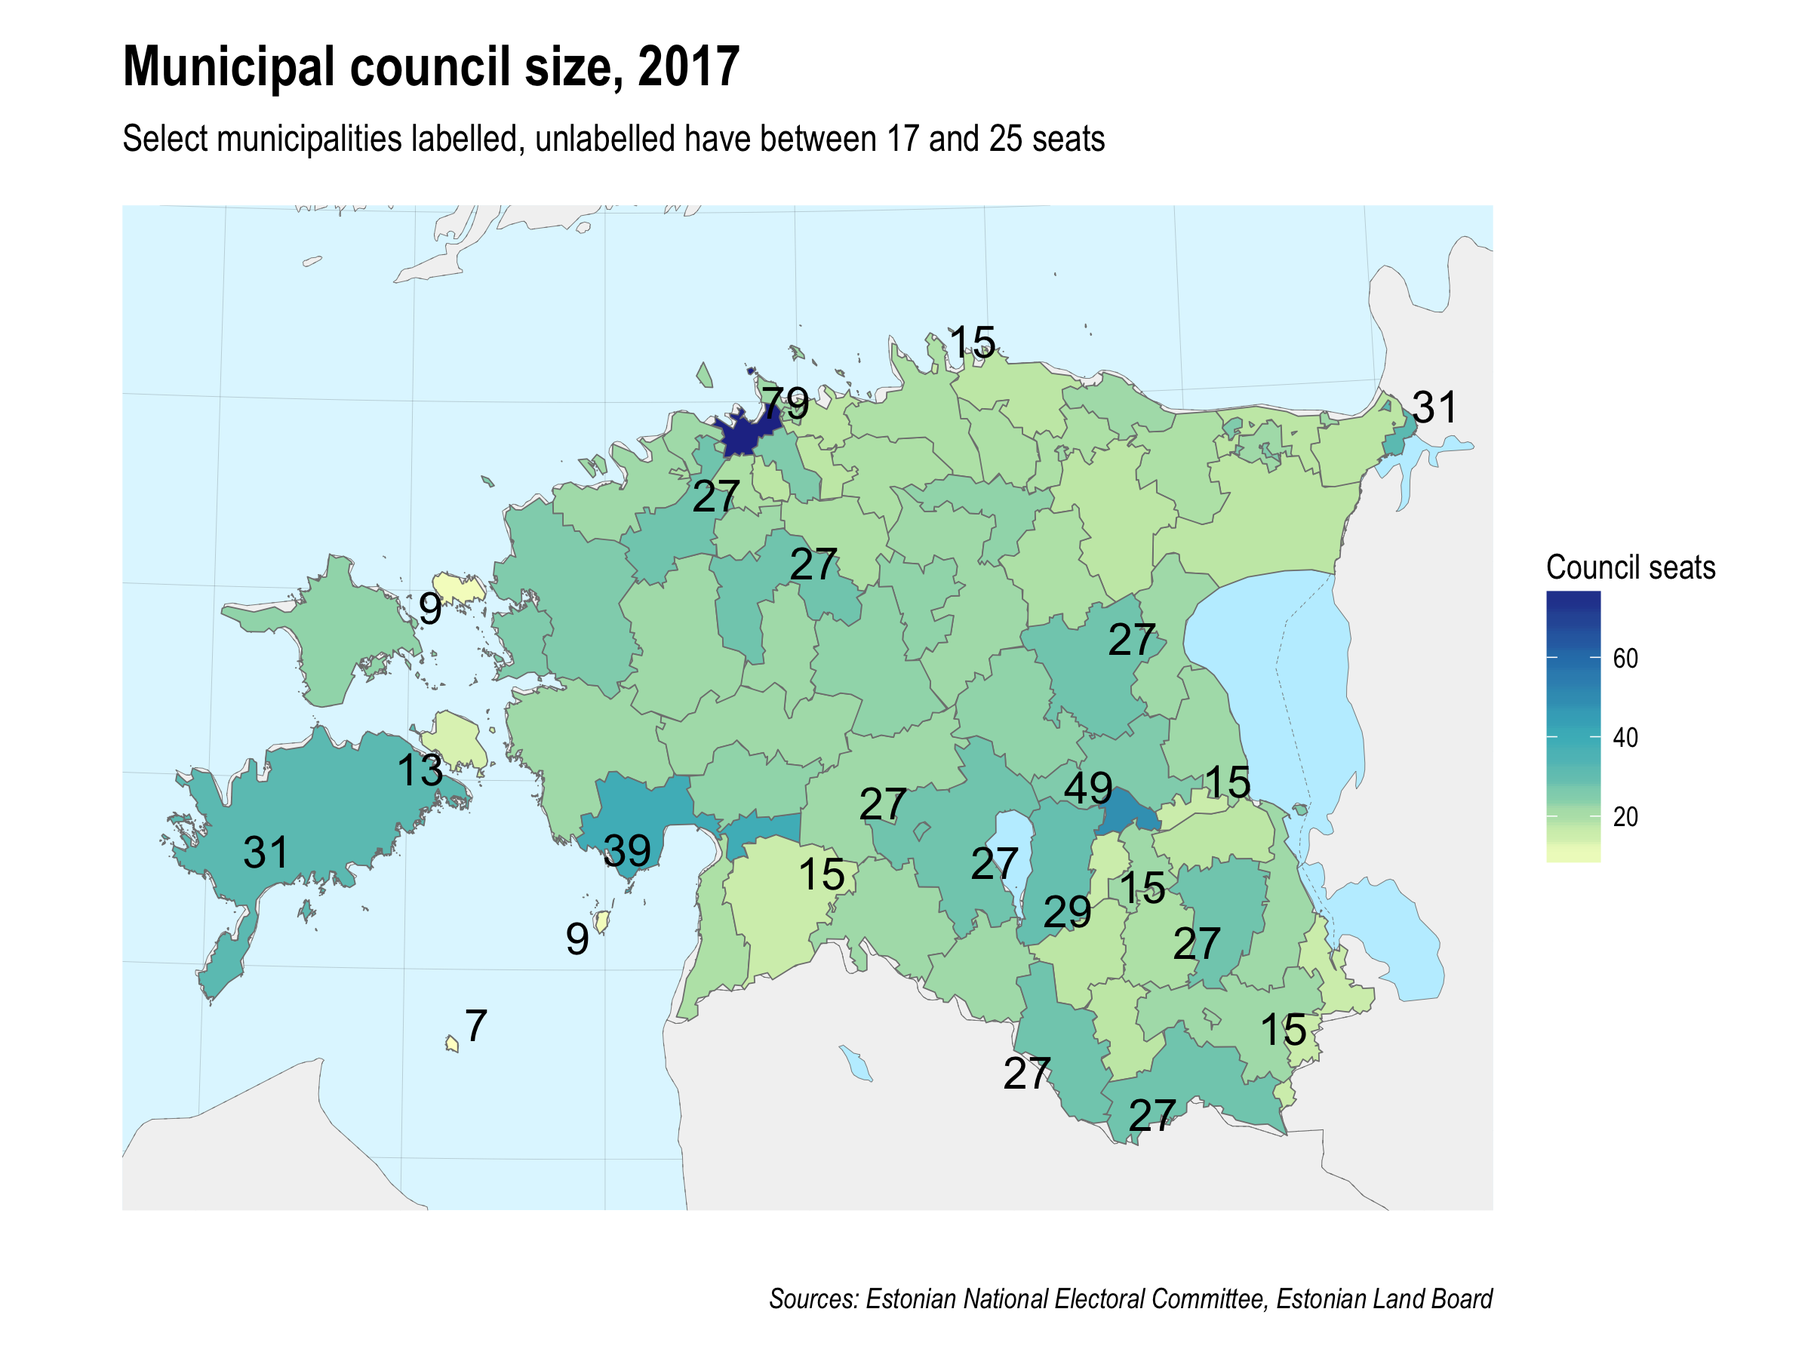
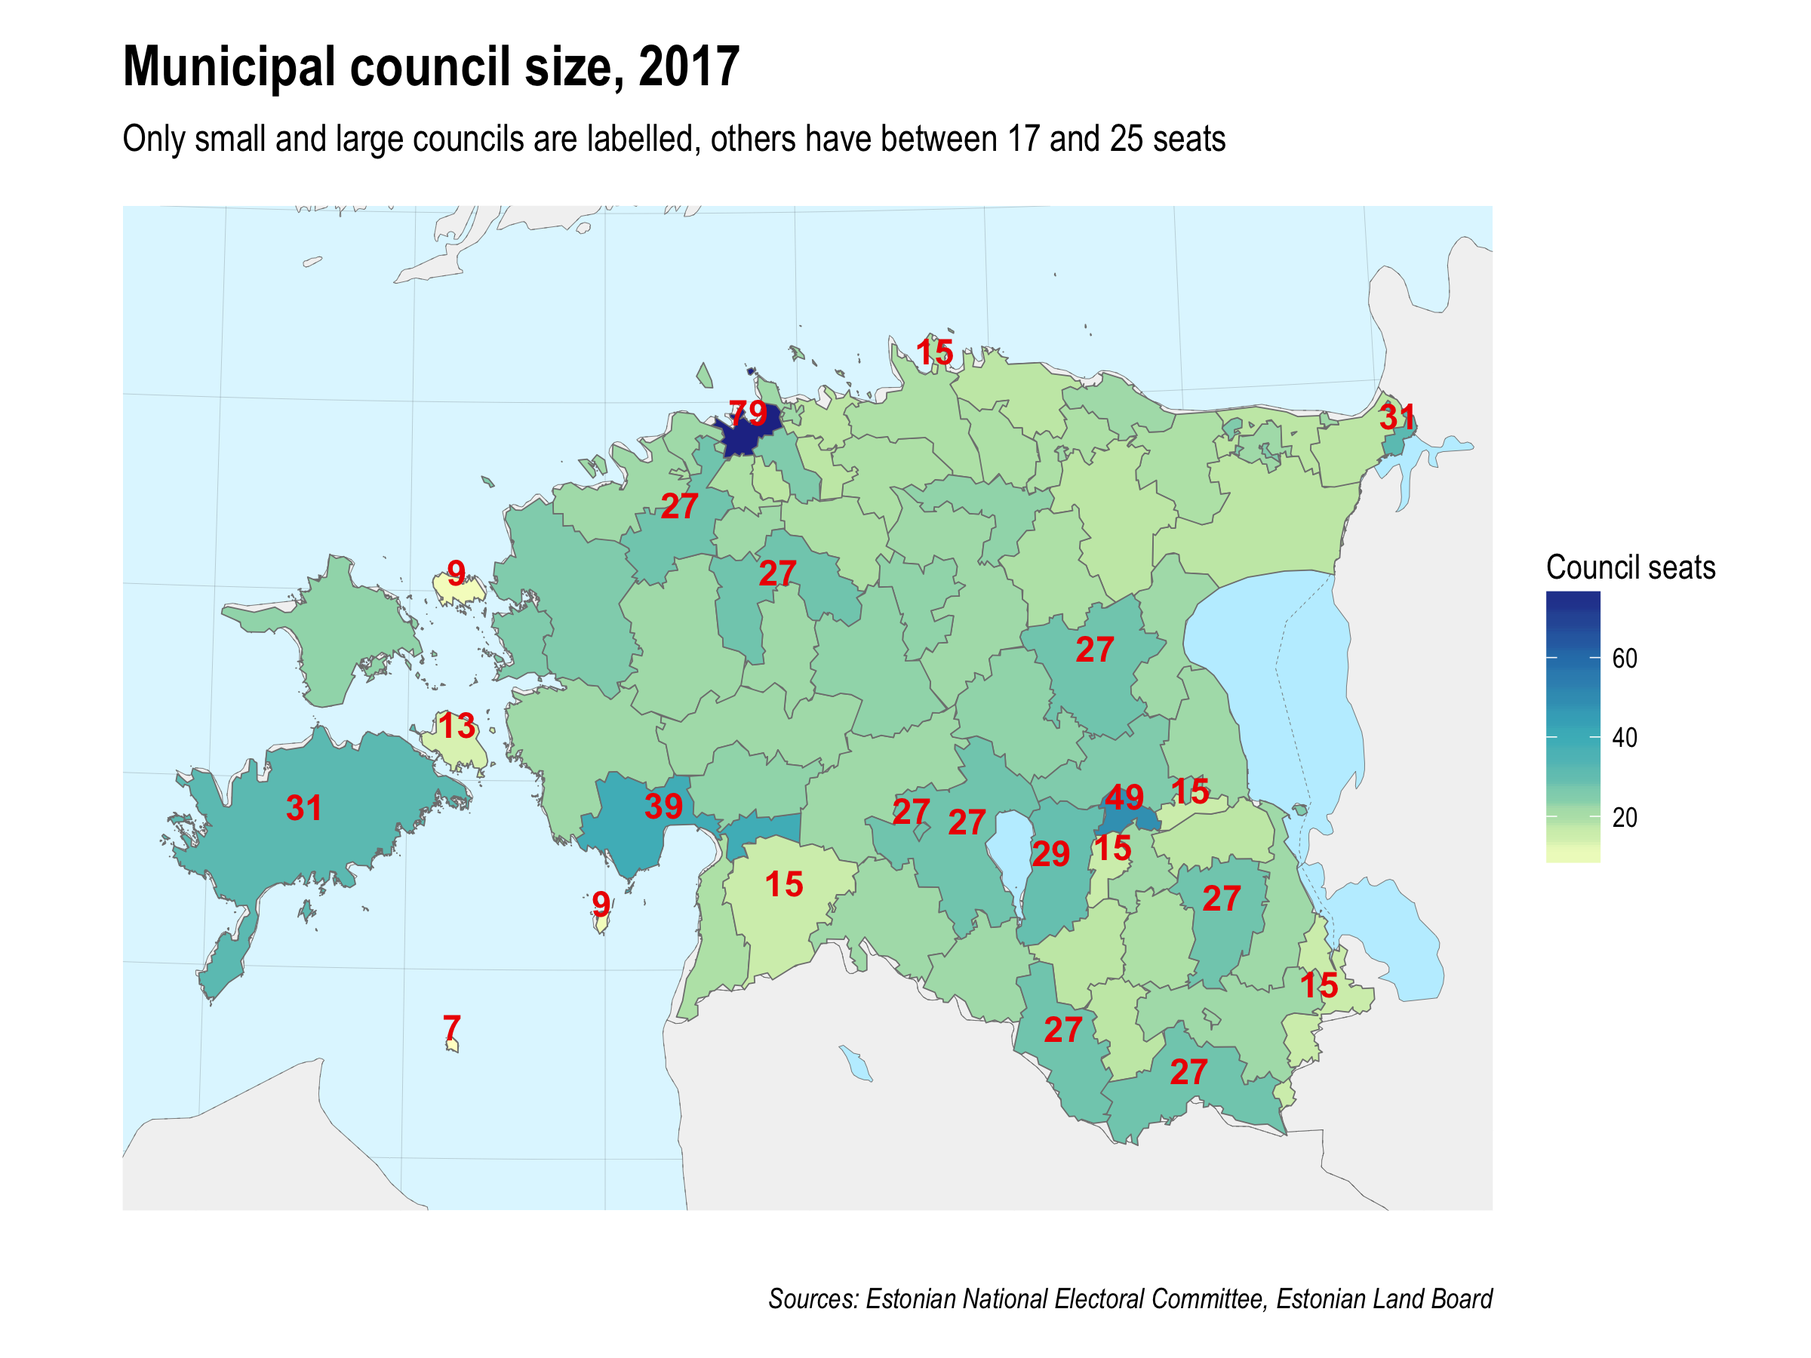
add Estonia 2017 elections post

diff --git a/_posts/2017-11-28-estonia-2017-local-elections.md b/_posts/2017-11-28-estonia-2017-local-elections.md
@@ -1,0 +1,162 @@
+---
+layout: single
+title: Local elections in Estonia
+date: 2017-11-28 21:30:00
+category: research
+tags: [estonia, elections, local elections]
+excerpt: Going through results for the 2017 local elections in Estonia; how well did the local right-wing populists do; slight disproportionality in results that favors bigger parties
+og_image: /content/2017/map-ekre-seats.png
+---
+
+About a month ago, on October 15th, Estonia held local elections for 79 municipalities. Insofar as they take place around the midpoint between national elections--the next are in 2019--the local elections are somewhat of a bellwether, like the US mid-term elections are. Accordingly a lot of the coverage in Estonia has focused on national-level results for the five major parties. 
+
+For anyone outside of Estonia, it is 2017 and the burning question of course is how well the local right-wing populists did. Especially since there may be the perception given the current state of affairs in countries like Hungary and Poland that Eastern Europe is not doing so well in this regard. This is what got me interested in the first place, although mostly for selfish reasons since I am a foreigner living in Estonia. 
+
+A disclaimer before I start: I don't think anything in here will be radically surprising to an Estonian reader. But I have lived here for three years now and have to admit that I knew very little about how elections work in Estonia before writing this post. 
+
+## Background
+
+After the latest round of administrative reforms this year, the number of municipalities in Estonia was reduced from over 200 before to 79.[^1] The elections were for councils in each of those municipalities. The councils vary in size loosely in proportion to population, with a range of 7 to 79. Tallinn and Tartu, the two largest cities, have 79 and 49 member councils respectively; most other councils have between 17 and 25 members. 
+
+[^1]: There have been several rounds of administrative reform in Estonia actually in which county and municipal borders have been redrawn. I gather that the latest round was to aggregate municipalities with a population less than 5,000. I wonder what the process for changing county borders in the US is, if there is one (and I think there isn't for state borders). 
+
+[![tag]({{ site.url }}/content/2017/map-council-seats.png)]({{ site.url }}/content/2017/map-council-seats.png)
+
+The elections use open-list proportional representation (PR) with a 5% electoral threshold. The Electoral Commission has a [very informative explanation](https://www.valimised.ee/en/estonian-elections-nutshell/ascertaining-election-results-local-government-councils-elections), and examples, for how it works. The experience of voting is not that different from how Americans vote. You cast your vote for one candidate, not a party per se, although you have a much broader range of candidates to vote for than the typical two in the US. And the candidates are grouped together in lists, which may represent parties or more temporary electoral alliances. 
+
+The big difference is in how winners are determined. Council seats are divvied up to the lists based on how many votes they each received in total, so that if a lists' candidates together received 30% of the vote they should get roughly 30% of council seats. Provided the list had more than 5% of the vote, that is; if not it gets no seats. Also, candidates who get a lot of votes[^2] are directly elected to a seat, regardless of how well their list as a whole did. 
+
+[^2]: The simple quota, equal to (# of total votes cast) / (# of seats in council). 
+
+Altogether there were 1,729 seats in 79 municipalities to be filled, and almost 12,000 candidates running for them. 
+
+## The results
+
+The Estonian Electoral Commission has a well-done website for the [results of the 2017 election](https://kov2017.valimised.ee/valimis-erakonniti.html)---and all prior elections as well actually---so I will just quickly go through the national level results here. 
+
+Estonia has five major national-level parties:
+
+- Center Party, with stronger support among the Russian minority and pensioners; national governing party since 2016
+- Reform Party, centre-right economic liberals who led government almost continuously between 2001 and 2016
+- Social Democrats, centre-left
+- IRL, center-right conservatives
+- EKRE, right-wing populists
+
+The Center Party obtained a majority of seats, 40 out of 79, in Tallinn. The city is by far Estonia's largest, with about a third of the country's population. That result is down from [46 seats](http://kov2013.vvk.ee/detailed_0784.html) in the last local elections in 2013. 
+
+Otherwise, at the national level the big changes were a crash in the vote for IRL and gains for EKRE, the right-wing populists. The table below summarizes the vote shares for the major parties as well as the various local parties and electoral coalitions, aggregated into the "Other parties/electoral alliances" category. The "Fielded candidates" column is the number of municipalities, out of 79, in which that party fielded candidates at all. Most parties did not run candidates in all 79 municipalities. The remaining columns in the table should be self-explanatory. 
+
+|Party                             | Vote %| Fielded Candidates| Seats| Plurality| Majority|
+|:---------------------------------|------:|------------------:|-----:|---------:|--------:|
+|Other parties/electoral alliances |   28.2|                 79|   751|        |       |
+|Center Party                      |   27.3|                 73|   297|        11|        6|
+|Reform Party                      |   19.5|                 54|   291|        16|        6|
+|Social Democrats                  |   10.4|                 39|   151|         4|        1|
+|IRL                               |    8.0|                 47|   152|         7|        3|
+|EKRE                              |    6.7|                 50|    87|         0|        0|
+
+
+**#1: Local electoral coalitions and single candidates dominated the elections.**
+
+While all of the national parties participated in the local elections, a large chunk of the candidates were from one of more than 150 local electoral alliances, or ran as independent candidates. Edgar Savisaar, former head of the Center Party and major of Tallinn, for example, ran in Tallinn under an independent list rather than as part of the Center Party list. Collectively they received the highest vote share. 
+
+The various local electoral coalitions and single candidates ended up filling 43% of legislative council seats. They also ran a disproportionate share of the total number of candidates.
+
+On a tangent, among the 150+ local lists, was one, in [Antsla vald](https://kov2017.valimised.ee/valimistulemus.html#0142), with the name "Me elame siin"---"We live here" in English. Maybe that's a reference to absentee officials who run as candidates there but actually live elsewhere like in Tallinn?
+
+And the longest name belonged to "Voices", a list catering to foreigners with the right to vote in local elections. That would be either resident EU citizens or foreigners with a permanent residence permit that one can get after 5 years. Their full name is:
+
+> Valimisliit Hääled - international and local voices for the prosperous future of Tallinn/rahvusvahelised ja kohalikud hääled Tallinna õitsva tuleviku jaoks
+
+That's 20 words and 155 characters in total. They managed to get [108 votes](https://kov2017.valimised.ee/valimistulemus.html#0784) in Tallinn. 
+
+**#2: Out of the national parties, the Reform Party had the best bang for their buck.**
+
+While more is always better, generally I think the incentives for these elections are like this:
+
+- getting in below the 5% threshold is bad since you get no seats at all; any resources spent here have a short-term return of zero
+- enough vote share to get a plurality of seats is good since it likely means you will head a coalition governing the municipality
+- getting in at 50% or more is great since it guarantees running the local council and without the need for a coalition
+- but much more than 50% doesn't really provide any extra benefit, so if any resources were spent to get above that level they are also a waste
+
+So the sweet spot is between 5% and around 50% of votes, leaning more towards enough for a plurality or even majority. In these terms, the Reform Party had the best bang for their buck. In the municipalities in which they ran candidates, they tended to do well. In only 2 did they fail to cross the 5% threshold, and often they did well enough to end up with the biggest vote share. Although they had overall 7 percentage points less vote share than the Center Party and ran candidates in 20 less municipalities, they won almost as many local council seats and actually ended up with a plurality in more than the Center Party did.
+
+[![tag]({{ site.url }}/content/2017/map-vote-share-all-parties.png)]({{ site.url }}/content/2017/map-vote-share-all-parties.png)
+
+It's not possible to say that this is a consequence of some action on part of the party, as much as it is a function of the distribution of Reform support across the municipalities, i.e. geographically. The reason the Center Party won less council seats and pluralities in proportion to its higher vote share is that their support is geographically more concentrated. Where the Center Party does well, it does really well. In one municipality it had a vote share above 80%. But the modal vote share is pretty low and close to the 5% threshold. So in many municipalities they failed to win seats at all. 
+
+The plot below shows the distribution of vote shares in each of the 79 municipalities for each party.
+
+[![histograms]({{ site.url }}/content/2017/histograms-party-votes.png)]({{ site.url }}/content/2017/histograms-party-votes.png)
+
+Both the Center Party and IRL have fairly low vote shares in most municipalities in which they ran, but much stronger results in a small number of outliers. The results for Reform and the Social Democrats, and EKRE for that matter, are more evenly and favorably distributed.  
+
+**#3: People vs land, Center and Reform still have the most impact on people**
+
+The discussion and visualizations so far have emphasized municipalities and areas as units over population, and these factors are not well related at all. The population is distributed very lopsidedly, with a third in Tallinn alone. So whoever controls the Tallinn municipal government has almost by default the most influence at the local government level on people, and that would be Keskerakond, the Center Party. They also control the third largest city, Narva in the east, while Reform Party had pluralities Tartu and Pärnu, the second and fourth largest cities, respectively. Those four cities account for about half of Estonia's population. 
+
+Maybe one way to think of this distinction is like this:
+
+- if you ask a random Estonian who heads their local government, chances are it'll be Center Party or Reform Party
+- if you are driving through Estonia, or throwing darts on a map of the country, chances are that it's an area with a local government headed by the Reform Party (well, a weird local electoral coalition most likely, but out of the major national parties anyways)
+
+The population distribution is so skewed it's hard to fit that onto a map at all. I tried below by plotting circles that represent the number of votes each party got in a municipality. The color scheme is the same, but points now mark the municipalities and they are scaled so that the area is proportional to the party's vote in that area. 
+
+[![tag]({{ site.url }}/content/2017/map-vote-counts-all-parties.png)]({{ site.url }}/content/2017/map-vote-counts-all-parties.png)
+
+It's just Tallinn. The city just dominates population. It's [4.5 times](https://en.wikipedia.org/wiki/List_of_cities_and_towns_in_Estonia) as big as the second largest city Tartu. 
+
+One interesting thing that stands out when showing the results this way is how much the Center Party depends on support in Tallinn for its overall success. The table below summarizes the votes for each party and how much of it came from Tallinn.
+
+|Party                             |  Votes| Votes %| Tallinn| Tallinn %|
+|:---------------------------------|------:|-------:|-------:|---------:|
+|Other parties/electoral alliances | 164356|    28.2|   20275|      12.3|
+|Center Party                      | 158952|    27.3|   85199|      53.6|
+|Reform Party                      | 113540|    19.5|   39323|      34.6|
+|Social Democrats                  |  60299|    10.4|   21053|      34.9|
+|IRL                               |  46394|     8.0|   12638|      27.2|
+|EKRE                              |  39003|     6.7|   13437|      34.5|
+
+More than half of the Center Party's votes are from Tallinn, compared to about a third for the other parties. This probably is in large part because many of Estonia's Russians, from whom the Center Party draws strong support, live in Tallinn. While around 40% of Tallinn's population is ethnically Russian, the average for the rest of Estonia is more around 20% and even less if you also take out Eastern municipalities like Narva. 
+
+**#4: There is a predictable deviation from pure proportionality: large parties have a slight advantage.**
+
+In a PR system the legislative seat distribution should more or less reflect party vote shares. In theory this works best when seat numbers are large since you can't split a single council seat, but here we have 79 councils with a median of 21 seats. The first table already showed that the results are not proportional if we sum up to the national level---the Reform Party won almost as many local council seats as the Center Party with 7 percentage points less vote share. At the municipal level there is a very consistent relationship between party vote share and seat share. It is close to proportionality, but slightly in favor for larger parties. 
+
+[![tag]({{ site.url }}/content/2017/proportionality.png)]({{ site.url }}/content/2017/proportionality.png)
+
+This shows party vote share on *x* against party seat share on the *y*-axis. The line and grey bands are exact proportionality---seat share matches vote share---and 5 and 10 point deviations from it. Each point represents a party's vote share in a municipality. The size of the points is proportional to the local council size. Ninety-five percent of points are within 5% of exactly proportional results, but if you draw a line through those points it does not exactly match the proportional line. 
+
+This seems to be due to the specific method used to allocate seats to parties, the [D'Hondt method](https://en.wikipedia.org/wiki/D%27Hondt_method). It slightly favors large parties. Specifically, for every percentage vote share above 15% a party on average received a 0.11% seat advantage. This is from a linear model of seat share on vote share (adj. R^2 = 0.98). 
+
+Generally, the spread in deviations from exact proportionality should be larger for small councils and smaller for larger councils. This does not work as expected. E.g. in Tallinn, which has the largest council size, the Center Party managed to win a 51% seat share with 44.4% of the vote. That's an unexpectedly large deviation, and it was similar for the other large cities. The likely reason is that they are further sub-divided into electoral districts that each respectively have smaller district magnitude (how many seats they elect to the local council). 
+
+Regarding the 5% threshold, most parties below it had in fact 0 seats, but there were exceptions. This can happen when a candidate him or herself personally receives enough votes to be directly elected. Conversely, some parties above the 5% threshold did not get seats. In small councils the effective threshold to get seats can be higher. E.g. in a council with 7 seats you effectively need a list vote of around $100/7 \approx 14.3$ percent to have a chance at a seat. 
+
+## How did the populists do?
+
+What got me initially interested in the local election results was to see where EKRE did well. Like the goal was to just make a map of EKRE support across Estonia. That's interesting in part because of the general fear about a surge in right-wing populist support since the election of Trump in the US in November 2016, and whether it would show in the elections in France, Germany, and other European countries this year. But I'm also a foreigner living in Estonia, so I'm curious how the local "we need to preserve the Estonian Nation" guys are doing. By the way, I took the colors in the plot above for each party from the Electoral Commission website, and they use brown for EKRE. 
+
+Fortunately their success and practical impact so far have been fairly low. They had the lowest total number of votes out of the major parties, at 6.7 percent. Below are maps for the vote and seat shares in the 79 municipalities.   
+
+<figure class="half">
+    <a href="{{ site.url }}/content/2017/map-ekre-votes.png"><img src="{{ site.url }}/content/2017/map-ekre-votes.png"></a>
+    <a href="{{ site.url }}/content/2017/map-ekre-seats.png"><img src="{{ site.url }}/content/2017/map-ekre-seats.png"></a>
+    <figcaption>Vote percentage and council seat share for EKRE, Estonia's right-wing populist party.</figcaption>
+</figure>
+
+While the vote share they received is higher than they had in the last parliamentary elections, it does not look like it translated to much actual influence at the local level. They did not do well in the East---no surprise given that that is where the Russian minority is. And in no local council were they able to obtain a plurality of seats. 
+
+## The candidates
+
+That's mostly it for now. There were some things that I looked at which didn't work out very well, I'll mention them briefly here:
+
+- Correlation between party vote shares. The pairwise correlations between party votes shares range from -.26 to .1. There are some stronger positive correlations, up to around .3, if one is willing to assume that a party's vote share in a municipality in which it did not field candidates is 0. But overall still not clear cut "gotcha" relationships. 
+- An extension of this to a multivariate model (beta regression) that maps a party's vote share to the vote shares of the other 4 major parties also did not work well. And in any case there is limited data (n=79 for this) to support that kind of modeling robustly. 
+- Support for communists. There is a quasi-communist party, competing at the national level (I think). It does not do well. There is one suburb east of Tallinn in which they managed to get a couple percent of the vote, but that is pretty much it. 
+
+In some future post I will look at the 11,802 candidates that ran for office, and whether there are any systematic pattern in who got elected. What I think might be interesting and also possible to do with the data are to look into how gender, education, and age played into the chances of being elected. And there are some interesting general descriptive statistics, e.g.: the Center Party and to a lesser extent EKRE were older, with 25% and 18% of candidates over 65 respectively compared to 10-14% for the other parties. EKRE's candidates also tended to be male (72%) and slightly less well-educated than average. The Social Democrats had the best gender balance at 49% women candidates. 
+
+*****
+
+*Thanks to the Electoral Commission for providing data on the results in machine-readable format.*
